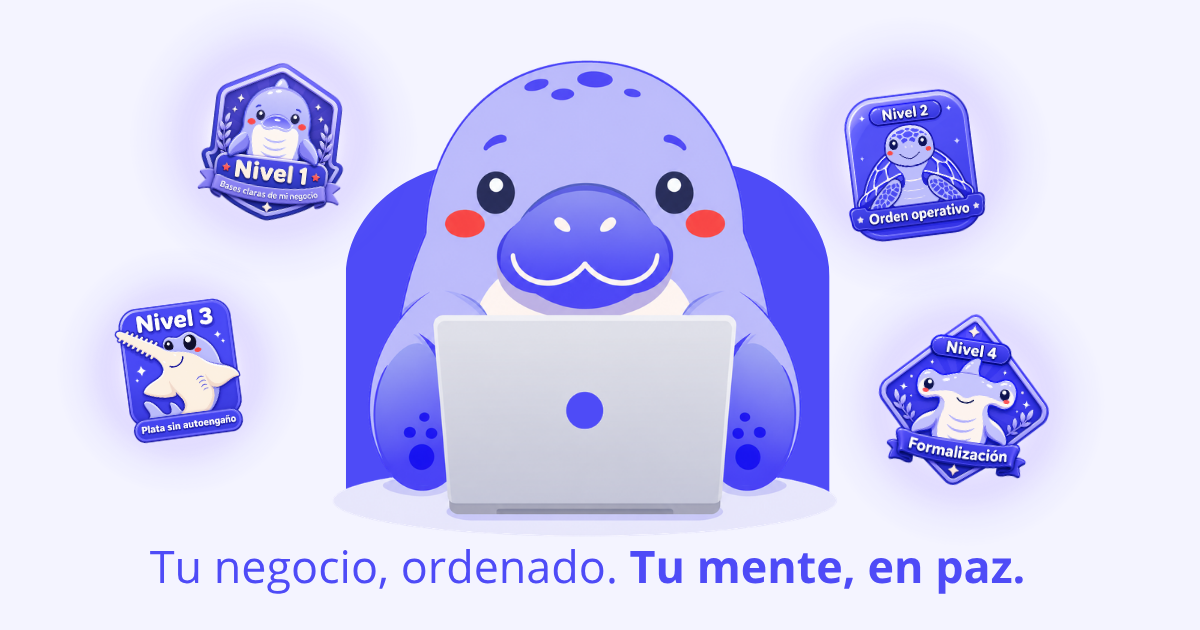
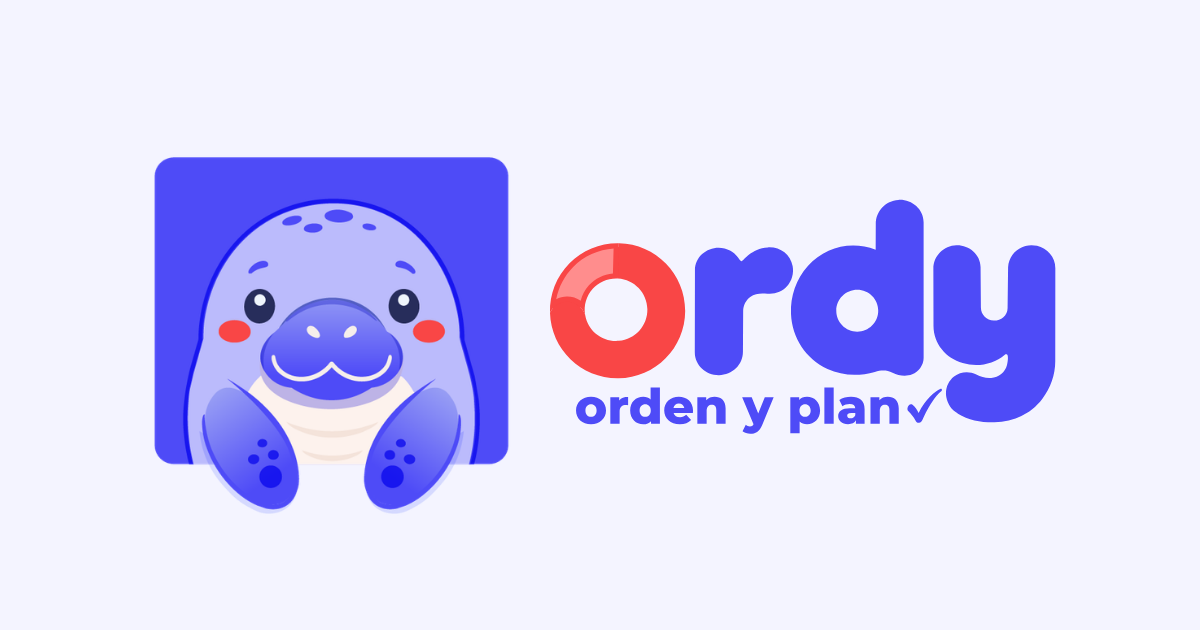
Add files via upload

diff --git a/index.html b/index.html
@@ -5,7 +5,7 @@
   <meta name="viewport" content="width=device-width, initial-scale=1.0">
 
   <!-- SEO -->
-  <title>Ordy | Ordená tu negocio con claridad y sin empezar desde cero</title>
+  <title>Ordy | Ordená tu negocio con claridad</title>
   <meta name="description" content="Ordy convierte la información de tu negocio en dashboards claros para ayudarte a tomar mejores decisiones y usar mejor la IA.">
   <meta name="robots" content="index, follow">
   <link rel="canonical" href="https://www.ordenyplan.com/">